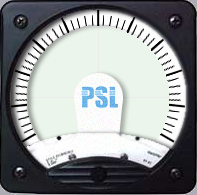
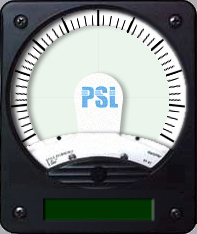
visual tweaks

diff --git a/pqube3.js b/pqube3.js
@@ -1,23 +1,22 @@
 Freq = new Meteor.Collection('freq');
 
 if (Meteor.isClient) {
-  Meteor.startup(function () {
-    $('#freq-display').sevenSeg({
-      digits: 6,
-      colorOff: "#003200", 
-      colorOn: "Lime",
-      slant: 10
-    });
-  });
-
   Meteor.subscribe('freq');
   var freqGauge;
   
   Template.gauge.rendered = function () {
+    $('#freq-display').sevenSeg({
+      digits: 6,
+      colorOff: "#004200", 
+      colorOn: "#00aa00",
+      colorBackground: "#013500",
+      slant: 3
+    });
+
     var self = this;
-    var round;
+
     self.gauge = new TunguskaGauge({
-      id: 'freq-gauge',
+      id: 'tunguska-gauge',
       range: {
 	min: 59.9,
 	lowStop: 59.89,
@@ -28,18 +27,17 @@ if (Meteor.isClient) {
       },
       foreground: {
 	image: 'meter_front.png',
-	left: -98,
-	top: -98
+	left: -99,
+	top: -94
       },
-      background: {
-	image: 'meter_face.jpg',
-	left: -98,
-	top: -98
-      },
-
       digital: {
-	font: '0px',
-	color: '#fff'
+	font: '18px sans serif',
+	color: '#333',
+        top:57,
+        left:0,
+        callback: function (pV) {
+          return 'Hz';
+        }
       },
       tick: {
 	minor: {
@@ -49,19 +47,18 @@ if (Meteor.isClient) {
 	  lineWidth: 0,
 	  startAt: 1,
 	  endAt: 1,
-	  interval: .05,
+	  interval: .02,
 	  legend: {
 	    color: '#555',
 	    callback: function (n) {
-	      console.log(n);
 	      return  n.toFixed(2);
 	    },
-	    font: '12px sans serif',
-	    radius: .65
+	    font: '7px sans serif',
+	    radius: .7
 
 	  },
 	  first: 59.9,
-	  last: 60.1
+	  last: 60.101
 	}
       }
     });
@@ -72,7 +69,7 @@ if (Meteor.isClient) {
     self.gauge.set(59.89);
     freqGauge = self.gauge;
   };
-  Template.freq.helpers({
+  Template.gauge.helpers({
     frequency: function () {
       var data = Freq.findOne();
       if (data) {

diff --git a/pqube3.html b/pqube3.html
@@ -1,22 +1,37 @@
 <head>
   <title>pqube3</title>
   <meta name="viewport" content="initial-scale=1, maximum-scale=1, minimum-scale=1, user-scalable=0, width=device-width">
+  <meta name="author" content="Ian McEachern">
   <script src="/sevenSeg.js"></script>
 </head>
 
 <body>
-  <img src="/psl.png">
-  <h2>Frequency (Hz):</h2>
-  {{> gauge}}	
-  {{> freq}}
+  <div id="container">
+    <img id="logo" src="/psl.png">
+    <br><br>
+    {{> gauge}}	
+  </div>
+  {{> footer}}
 </body>
 
-<template name="freq">
-  <div id="freq-display"></div>
+<template name="gauge">
 
-  {{frequency}}
+  <select id="meter-source">
+    <option>Frequency</option>
+  </select>
+  <br><br>
+  <div id="freq-gauge">
+    <img src="/meter_face.jpg">
+    <div id="tunguska-gauge">
+    </div>
+    <div id="freq-display"></div>
+    {{frequency}}
+  </div>
 </template>
 
-<template name="gauge">
-  <div id="freq-gauge"></div>
+<template name="footer">
+  <footer>
+    <hr>
+     <a href="https://github.com/techieyann/pqube3-app" target="_blank">Source</a> &copy; 2015
+  </footer>
 </template>

diff --git a/pqube3.css b/pqube3.css
@@ -1,15 +1,39 @@
 /* CSS declarations go here */
-img {
+body {
+    width:100%;
+}
+footer {
+    text-align: center;
+}
+
+#container {
+    width:200px;
+    margin: auto;
+}
+#logo {
     width:200px;
 }
-
-#freq-display {
-    width: 200px;
-    height: 33px;
+#meter-source{
+    width:200px;
+    text-align:center;
+}
+#freq-gauge {
+    position:relative;
 }
 
-#freq-gauge {
+#tunguska-gauge {
+    position:absolute;
+    top:-5px;
+    left:0px;
     display:inline-block;
     width: 200px;
     height: 200px;
+}
+
+#freq-display {
+    position:absolute;
+    top:201px;
+    left:51px;
+    width: 95px;
+    height: 17px;
 }
